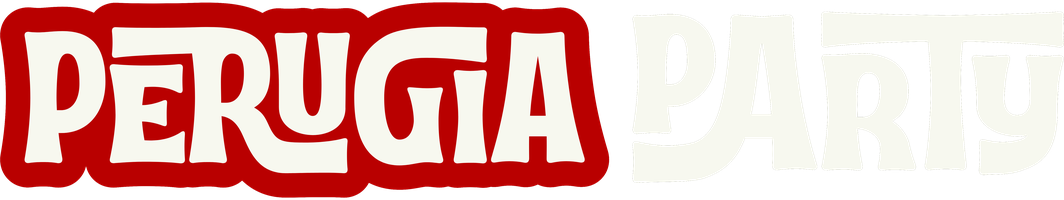
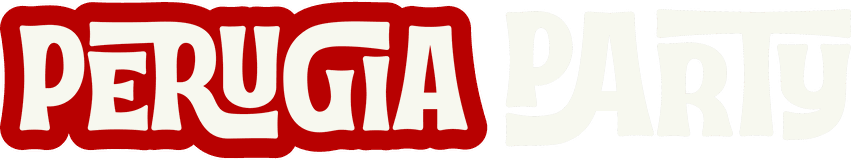
New wordmarks across the site: option 2 in headers and logins, option 5 in footers, option 4 in the /crew and /door app bars
Claude-Session: https://claude.ai/code/session_01JQzfYHKKua7JCGq9WGavx1

diff --git a/public/crew.html b/public/crew.html
@@ -26,6 +26,7 @@ body{margin:0;background:var(--bg);color:var(--txt);font-family:var(--f-body);fo
 .bar{display:flex;align-items:center;justify-content:space-between;gap:10px;padding:4px 0 14px}
 .brand{display:flex;align-items:center;gap:10px;min-width:0}
 .brand img{width:36px;height:36px;border-radius:9px;flex:none}
+.brand img.wm{width:auto;height:22px;border-radius:0}
 .brand b{display:block;font-weight:800;font-size:16px;line-height:1.15;white-space:nowrap;overflow:hidden;text-overflow:ellipsis}
 .brand span{display:block;white-space:nowrap;overflow:hidden;text-overflow:ellipsis}
 .icon{width:42px;height:42px;flex:none;border-radius:50%;border:1.5px solid var(--hair);background:var(--card);color:var(--soft);display:grid;place-items:center;cursor:pointer}
@@ -34,7 +35,7 @@ body{margin:0;background:var(--bg);color:var(--txt);font-family:var(--f-body);fo
 /* sign in / join: one calm centred column, no top bar */
 body.auth .bar{display:none}
 .login{min-height:calc(100dvh - 120px);display:flex;flex-direction:column;justify-content:center;gap:10px;max-width:340px;margin:0 auto;width:100%;text-align:center}
-.login .logo{width:64px;height:64px;border-radius:16px;margin:0 auto 14px;display:block}
+.login .logo{width:250px;max-width:80%;height:auto;margin:0 auto 18px;display:block}
 .login h1{font-family:var(--f-body);font-weight:800;font-size:26px;letter-spacing:-.01em;line-height:1.1;margin:0 0 14px;color:var(--txt)}
 .login p.sub{margin:-8px 0 14px;color:var(--soft);font-size:14px}
 .login input{text-align:left}
@@ -198,12 +199,12 @@ textarea{font:inherit;resize:vertical;line-height:1.5}
 <body class="auth">
 <div class="app">
   <div class="bar">
-    <div class="brand"><img src="/apple-touch-icon.png" alt=""><div><b id="evname">Crew</b><span class="mono" id="evsub">PerugiaParty</span></div></div>
+    <div class="brand"><img class="wm" src="/brand/wordmark-4.png" alt="PerugiaParty"><div><b id="evname">Crew</b><span class="mono" id="evsub">PerugiaParty</span></div></div>
     <button class="icon hide" id="lockbtn" type="button" aria-label="Log out"><svg viewBox="0 0 24 24" fill="none" stroke="currentColor" stroke-width="2" stroke-linecap="round" stroke-linejoin="round"><rect x="5" y="11" width="14" height="10" rx="2"/><path d="M8 11V7a4 4 0 0 1 8 0v4"/></svg></button>
   </div>
 
   <form class="login" id="login" novalidate>
-    <img class="logo" src="/apple-touch-icon.png" alt="">
+    <img class="logo" src="/brand/wordmark-2.png" alt="PerugiaParty">
     <h1>Crew</h1>
     <input id="user" autocomplete="username" autocapitalize="off" autocorrect="off" spellcheck="false" placeholder="Username" aria-label="Username">
     <input id="pw" type="password" autocomplete="current-password" placeholder="Password" aria-label="Password" enterkeyhint="go">
@@ -213,7 +214,7 @@ textarea{font:inherit;resize:vertical;line-height:1.5}
   </form>
 
   <form class="login hide" id="signup" novalidate>
-    <img class="logo" src="/apple-touch-icon.png" alt="">
+    <img class="logo" src="/brand/wordmark-2.png" alt="PerugiaParty">
     <h1>Join the crew</h1>
     <input id="s-name" autocomplete="name" placeholder="Full name" maxlength="60">
     <input id="s-ig" autocapitalize="off" autocorrect="off" spellcheck="false" placeholder="@instagram" maxlength="60">
@@ -225,7 +226,7 @@ textarea{font:inherit;resize:vertical;line-height:1.5}
   </form>
 
   <section class="login hide" id="pending">
-    <img class="logo" src="/apple-touch-icon.png" alt="">
+    <img class="logo" src="/brand/wordmark-2.png" alt="PerugiaParty">
     <h1>One last step</h1>
     <div id="pend-body"></div>
     <button class="linkbtn" type="button" data-go-login>Back to <b>log in</b></button>

diff --git a/public/door.html b/public/door.html
@@ -27,6 +27,7 @@ body{margin:0;background:var(--bg);color:var(--txt);font-family:var(--f-body);ov
 .bar{display:flex;align-items:center;justify-content:space-between;gap:10px;padding:4px 2px 12px}
 .brand{display:flex;align-items:center;gap:10px;min-width:0}
 .brand img{width:34px;height:34px;border-radius:9px;flex:none}
+.brand img.wm{width:auto;height:22px;border-radius:0}
 .brand b{display:block;font-weight:800;font-size:16px;line-height:1.1}
 .brand span{display:block;font-family:var(--f-mono);font-size:11px;letter-spacing:.12em;text-transform:uppercase;color:var(--dim);white-space:nowrap;overflow:hidden;text-overflow:ellipsis}
 .icon{width:42px;height:42px;flex:none;border-radius:50%;border:1.5px solid var(--hair);background:var(--card);color:var(--soft);display:grid;place-items:center;cursor:pointer}
@@ -96,7 +97,7 @@ body{margin:0;background:var(--bg);color:var(--txt);font-family:var(--f-body);ov
 
 /* login */
 .login{flex:1;display:flex;flex-direction:column;justify-content:center;gap:10px;padding-bottom:10vh;max-width:340px;width:100%;margin:0 auto;text-align:center}
-.login .logo{width:64px;height:64px;border-radius:16px;margin:0 auto 14px;display:block}
+.login .logo{width:250px;max-width:80%;height:auto;margin:0 auto 18px;display:block}
 .login h1{margin:0 0 14px;font-family:var(--f-body);font-weight:800;font-size:26px;line-height:1.1;color:var(--txt)}
 body.auth .bar{display:none}
 .login p{margin:0;color:var(--soft);font-size:15px}
@@ -164,7 +165,7 @@ body.auth .bar{display:none}
 <body>
 <div class="app">
   <div class="bar">
-    <div class="brand"><img src="/apple-touch-icon.png" alt=""><div><b>Door</b><span id="evname">PerugiaParty</span></div></div>
+    <div class="brand"><img class="wm" src="/brand/wordmark-4.png" alt="PerugiaParty"><div><b>Door</b><span id="evname">PerugiaParty</span></div></div>
     <div style="display:flex;align-items:center;gap:10px">
       <span class="net" id="net"><i></i><span>Online</span></span>
       <button class="icon hide" id="lockbtn" type="button" aria-label="Lock the scanner"><svg viewBox="0 0 24 24" fill="none" stroke="currentColor" stroke-width="2" stroke-linecap="round" stroke-linejoin="round"><rect x="5" y="11" width="14" height="10" rx="2"/><path d="M8 11V7a4 4 0 0 1 8 0v4"/></svg></button>
@@ -172,7 +173,7 @@ body.auth .bar{display:none}
   </div>
 
   <form class="login hide" id="login" novalidate>
-    <img class="logo" src="/apple-touch-icon.png" alt="">
+    <img class="logo" src="/brand/wordmark-2.png" alt="PerugiaParty">
     <h1>Door</h1>
     <input id="pw" type="password" autocomplete="current-password" placeholder="Door password" aria-label="Door password" enterkeyhint="go">
     <p class="err" id="lerr" role="alert"></p>

diff --git a/public/ticket.html b/public/ticket.html
@@ -343,7 +343,7 @@ h1{font-size:clamp(40px,8vw,64px)}
 .ww-go{margin-top:14px;width:100%;justify-content:center}
 /* clean login: centred column, logo, no extra text */
 .auth{max-width:340px;margin:0 auto;text-align:center;padding:6vh 0 4vh}
-.auth-logo{width:64px;height:64px;border-radius:16px;display:block;margin:0 auto 14px}
+.auth-logo{width:250px;max-width:80%;height:auto;display:block;margin:0 auto 18px}
 .auth h1{font-family:var(--f-body);font-weight:800;font-size:26px;letter-spacing:-.01em;margin:0 0 18px}
 .auth .login{display:grid;gap:10px}
 .auth .login input{width:100%;box-sizing:border-box}
@@ -356,7 +356,7 @@ h1{font-size:clamp(40px,8vw,64px)}
 <body>
 <header class="top">
   <div class="wrap">
-    <a class="mark" href="/">Perugia<span>Party</span></a>
+    <a class="mark" href="/"><img src="/brand/wordmark-2.png" alt="PerugiaParty" width="851" height="160"></a>
     <nav aria-label="Main"><a href="/#rules">House rules</a><a class="keep" href="/#faq">FAQ</a><a class="btn" id="nav-cta" href="/#request">Request a place</a></nav>
   </div>
 </header>
@@ -587,7 +587,7 @@ function verifyHTML(d){
 }
 function loginView(msg){
   $("page").innerHTML = `<div class="auth">
-    <img class="auth-logo" src="/apple-touch-icon.png" alt="">
+    <img class="auth-logo" src="/brand/wordmark-2.png" alt="PerugiaParty">
     <h1>My ticket</h1>
     <form class="login" id="login" novalidate>
       <input id="l-ig" placeholder="@instagram" aria-label="Instagram" autocapitalize="off" autocomplete="username" maxlength="40">

diff --git a/public/site.css b/public/site.css
@@ -32,14 +32,16 @@ p{margin:0}
 
 header.top{position:sticky;top:env(safe-area-inset-top,0px);z-index:10;background:var(--ink);color:var(--cream)}
 header.top .wrap{display:flex;align-items:center;justify-content:space-between;gap:16px;padding-block:12px}
-.mark{font-family:var(--f-display);font-size:21px;text-decoration:none}
+.mark{font-family:var(--f-display);font-size:21px;text-decoration:none;display:inline-flex;align-items:center}
+.mark img{height:32px;width:auto;display:block}
+.foot-mark{height:44px;width:auto;display:block;margin-bottom:22px}
 .mark span{color:#ff4a3d} /* readable red on black */
 nav{display:flex;gap:20px;align-items:center;flex-wrap:wrap}
 nav a{text-decoration:none;font-size:15px;color:var(--muted-dark)}
 nav a:hover{color:var(--cream)}
 @media (max-width:640px){header nav{gap:14px}header nav a:not(.btn):not(.keep){display:none}header nav a.keep{font-size:14px}}
-@media (max-width:420px){header .mark{font-size:19px}header nav{gap:12px}header .btn{padding:8px 13px;font-size:14px}}
-@media (max-width:360px){header .mark{font-size:17px}header nav{gap:10px}}
+@media (max-width:420px){header .mark img{height:27px}header .mark{font-size:19px}header nav{gap:12px}header .btn{padding:8px 13px;font-size:14px}}
+@media (max-width:360px){header .mark img{height:23px}header .mark{font-size:17px}header nav{gap:10px}}
 header nav{flex-wrap:nowrap}
 header .btn{white-space:nowrap}
 @media (max-width:380px){header nav a.keep{display:none}}

diff --git a/public/soon.html b/public/soon.html
@@ -27,6 +27,7 @@ body{background:var(--ink);color:var(--cream);display:flex;flex-direction:column
 .bar{display:flex;align-items:center;justify-content:space-between;gap:16px;padding:calc(14px + env(safe-area-inset-top,0px)) 20px 14px;max-width:1080px;width:100%;margin-inline:auto}
 .bar .mark{font-family:var(--f-display);font-size:21px;text-decoration:none;color:var(--cream)}
 .bar .mark span{color:#ff4a3d}
+.bar .mark img{height:32px;width:auto;display:block}
 .bar a.mine{font-size:14px;font-weight:700;color:var(--cream);text-decoration:none;border:1.5px solid #4a423b;border-radius:999px;padding:8px 16px;white-space:nowrap}
 .bar a.mine:hover{border-color:var(--cream)}
 html{overflow-x:hidden}
@@ -59,7 +60,7 @@ h1 em{font-style:normal;color:#ff4a3d}
 </head>
 <body>
 <div class="bar">
-  <a class="mark" href="/">Perugia<span>Party</span></a>
+  <a class="mark" href="/"><img src="/brand/wordmark-2.png" alt="PerugiaParty" width="851" height="160"></a>
 </div>
 <main>
   <div class="glow" aria-hidden="true"></div>

diff --git a/public/index.html b/public/index.html
@@ -298,7 +298,7 @@ html[data-closed] #request,html[data-closed] .ctas .btn.outline{display:none}
 <body>
 <header class="top">
   <div class="wrap">
-    <a class="mark" href="#top">Perugia<span>Party</span></a>
+    <a class="mark" href="#top"><img src="/brand/wordmark-2.png" alt="PerugiaParty" width="851" height="160"></a>
     <nav aria-label="Main">
       <a href="#rules">House rules</a>
       <a class="keep" href="#faq">FAQ</a>
@@ -502,6 +502,7 @@ html[data-closed] #request,html[data-closed] .ctas .btn.outline{display:none}
 
 <footer>
   <div class="wrap">
+    <img class="foot-mark" src="/brand/wordmark-5.png" alt="PerugiaParty" width="851" height="160" loading="lazy">
     <p class="sign">Tonight we party. Tomorrow we forget. <span>Later, it's the best night you've ever had.</span></p>
     <div class="meta">
       <p>Independent nights · Perugia, Italia</p>

diff --git a/public/privacy.html b/public/privacy.html
@@ -28,7 +28,7 @@ main{padding-block:56px 80px}
 <body>
 <header class="top">
   <div class="wrap">
-    <a class="mark" href="/">Perugia<span>Party</span></a>
+    <a class="mark" href="/"><img src="/brand/wordmark-2.png" alt="PerugiaParty" width="851" height="160"></a>
     <nav aria-label="Main"><a href="/#rules">House rules</a><a class="keep" href="/#faq">FAQ</a><a class="btn" id="nav-cta" href="/#request">Request a place</a></nav>
   </div>
 </header>
@@ -70,6 +70,7 @@ main{padding-block:56px 80px}
 </main>
 <footer>
   <div class="wrap">
+    <img class="foot-mark" src="/brand/wordmark-5.png" alt="PerugiaParty" width="851" height="160" loading="lazy">
     <p class="sign">Tonight we party. Tomorrow we forget. <span>Later, it's the best night you've ever had.</span></p>
     <div class="meta">
       <p>Independent nights · Perugia, Italia</p>

diff --git a/public/404.html b/public/404.html
@@ -18,7 +18,7 @@
 <body>
 <header class="top">
   <div class="wrap">
-    <a class="mark" href="/">Perugia<span>Party</span></a>
+    <a class="mark" href="/"><img src="/brand/wordmark-2.png" alt="PerugiaParty" width="851" height="160"></a>
     <nav aria-label="Main"><a href="/#rules">House rules</a><a class="keep" href="/#faq">FAQ</a><a class="btn" id="nav-cta" href="/#request">Request a place</a></nav>
   </div>
 </header>
@@ -32,6 +32,7 @@
 </main>
 <footer>
   <div class="wrap">
+    <img class="foot-mark" src="/brand/wordmark-5.png" alt="PerugiaParty" width="851" height="160" loading="lazy">
     <p class="sign">Tonight we party. Tomorrow we forget. <span>Later, it's the best night you've ever had.</span></p>
     <div class="meta">
       <p>Independent nights · Perugia, Italia</p>
